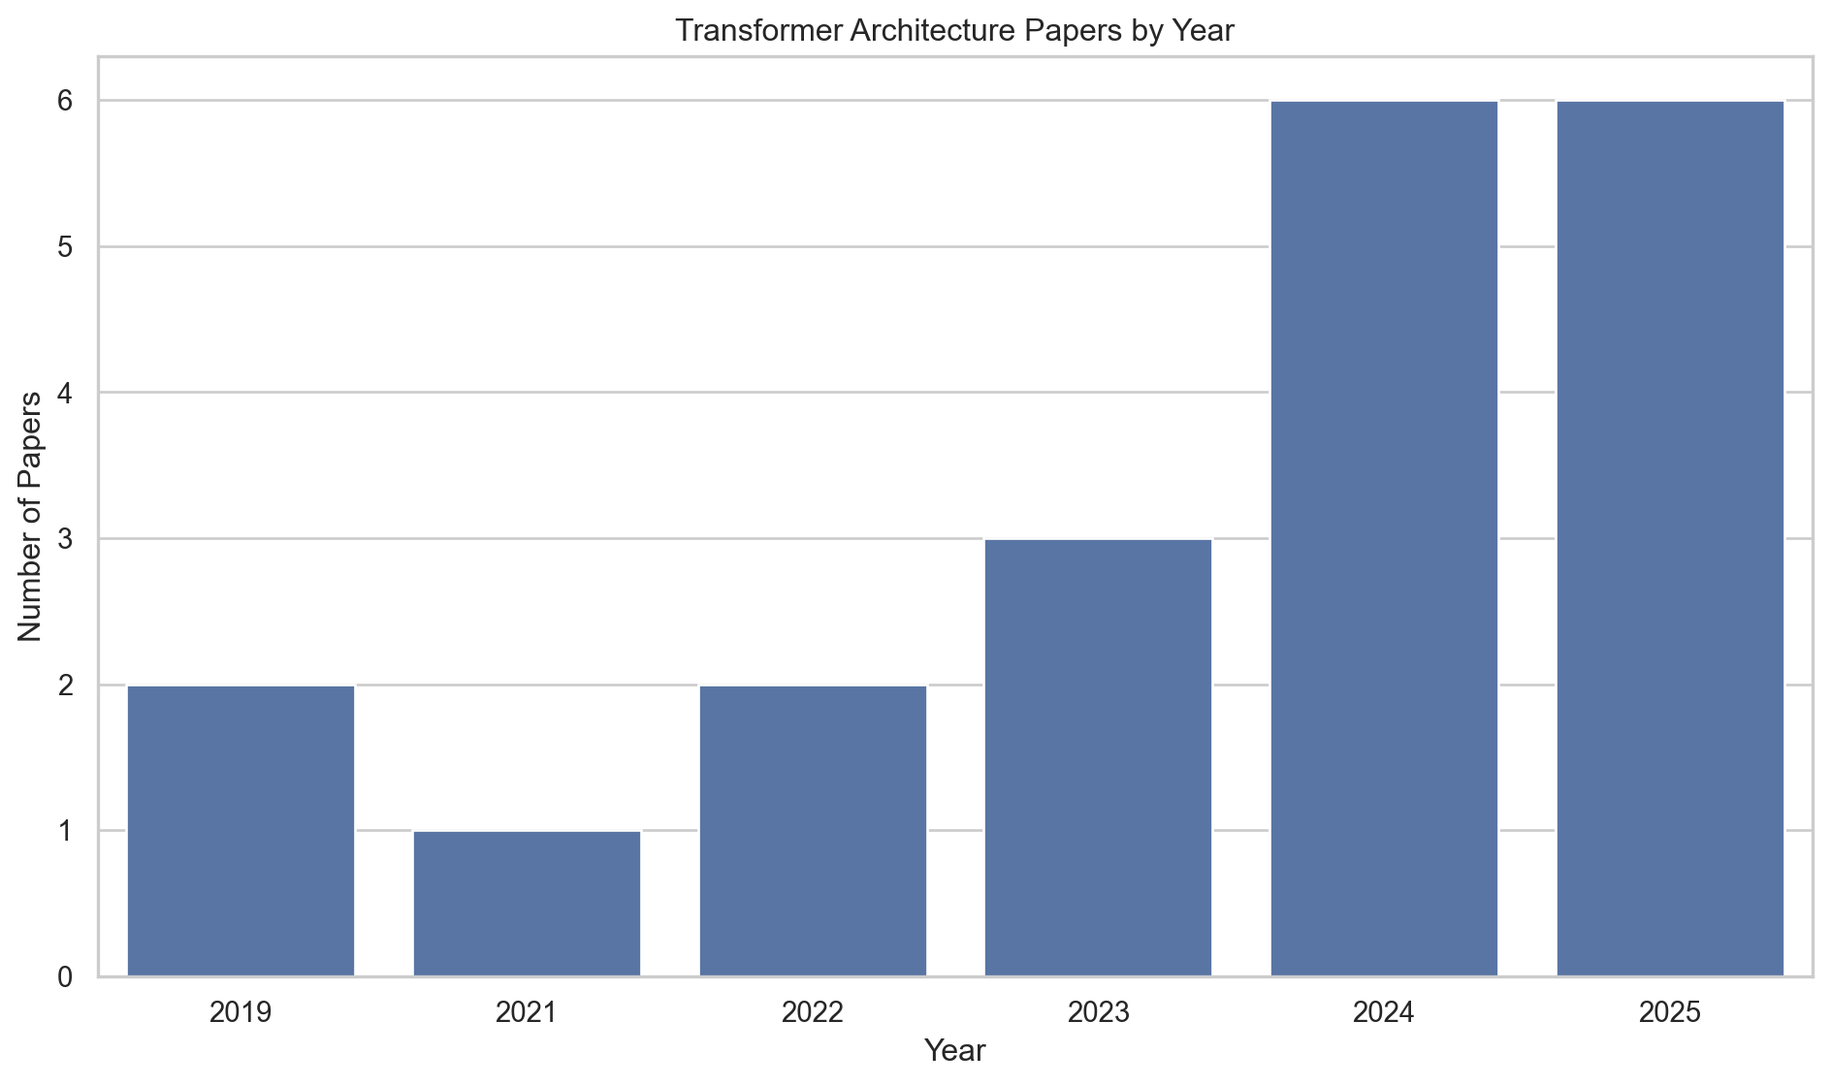
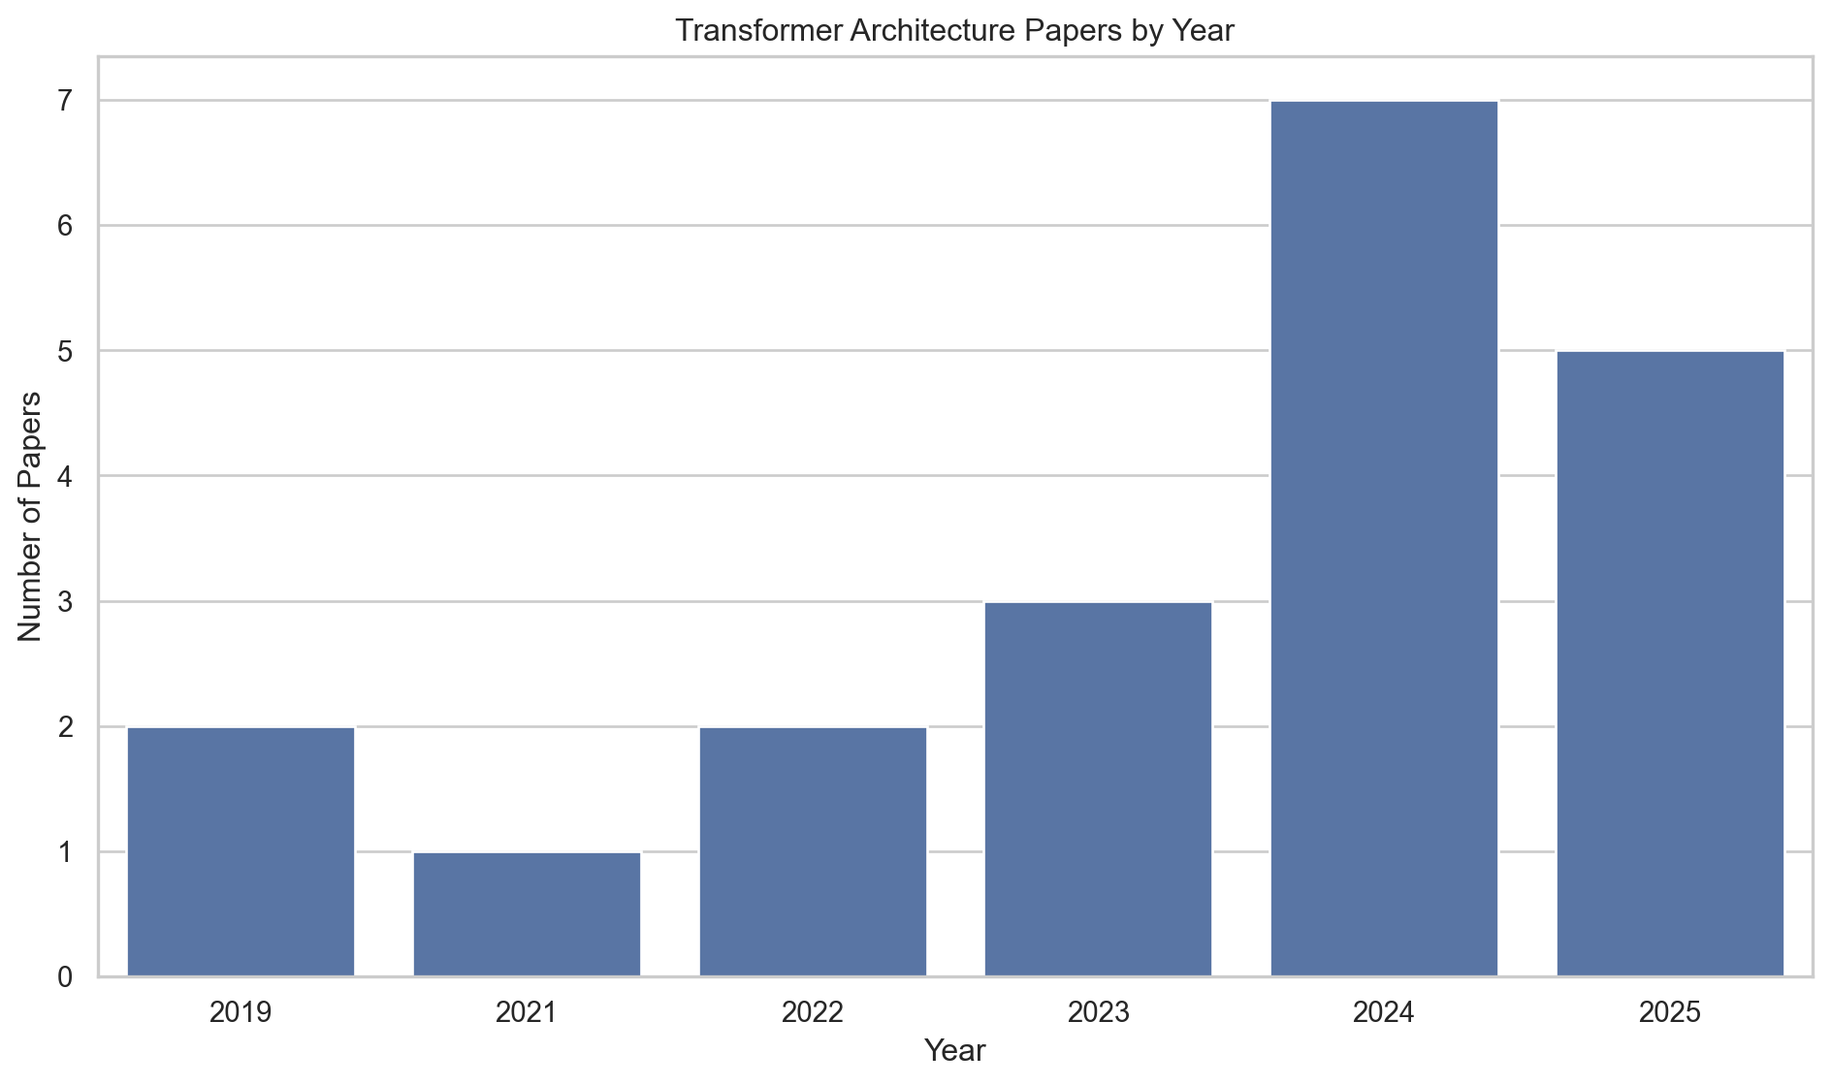
Updating charts

diff --git a/docs/tutorial.html b/docs/tutorial.html
@@ -206,11 +206,11 @@ pre > code.sourceCode > span > a:first-child::before { text-decoration: underlin
 <section id="importing" class="level2">
 <h2 class="anchored" data-anchor-id="importing">Importing</h2>
 <p>To import the entire package:</p>
-<div id="9b85baab" class="cell" data-execution_count="1">
+<div id="2598d375" class="cell" data-execution_count="1">
 <div class="code-copy-outer-scaffold"><div class="sourceCode cell-code" id="cb3"><pre class="sourceCode python code-with-copy"><code class="sourceCode python"><span id="cb3-1"><a href="#cb3-1" aria-hidden="true" tabindex="-1"></a><span class="im">import</span> ml_research_trends</span></code></pre></div><button title="Copy to Clipboard" class="code-copy-button"><i class="bi"></i></button></div>
 </div>
 <p>To import individual functions:</p>
-<div id="cb35aea7" class="cell" data-execution_count="2">
+<div id="dc18ccee" class="cell" data-execution_count="2">
 <div class="code-copy-outer-scaffold"><div class="sourceCode cell-code" id="cb4"><pre class="sourceCode python code-with-copy"><code class="sourceCode python"><span id="cb4-1"><a href="#cb4-1" aria-hidden="true" tabindex="-1"></a><span class="im">from</span> ml_research_trends <span class="im">import</span> (</span>
 <span id="cb4-2"><a href="#cb4-2" aria-hidden="true" tabindex="-1"></a>    collect_topic_data,</span>
 <span id="cb4-3"><a href="#cb4-3" aria-hidden="true" tabindex="-1"></a>    summarize_topic_data,</span>
@@ -224,7 +224,7 @@ pre > code.sourceCode > span > a:first-child::before { text-decoration: underlin
 <section id="setting-up-api-key" class="level2">
 <h2 class="anchored" data-anchor-id="setting-up-api-key">Setting up API Key</h2>
 <p>To load your API key from a <code>.env</code> file, use the <code>python-dotenv</code> package:</p>
-<div id="f57a7eb9" class="cell" data-execution_count="3">
+<div id="670c8d95" class="cell" data-execution_count="3">
 <div class="code-copy-outer-scaffold"><div class="sourceCode cell-code" id="cb5"><pre class="sourceCode python code-with-copy"><code class="sourceCode python"><span id="cb5-1"><a href="#cb5-1" aria-hidden="true" tabindex="-1"></a><span class="im">from</span> dotenv <span class="im">import</span> load_dotenv</span>
 <span id="cb5-2"><a href="#cb5-2" aria-hidden="true" tabindex="-1"></a><span class="im">import</span> os</span>
 <span id="cb5-3"><a href="#cb5-3" aria-hidden="true" tabindex="-1"></a></span>
@@ -243,7 +243,7 @@ pre > code.sourceCode > span > a:first-child::before { text-decoration: underlin
 <h3 class="anchored" data-anchor-id="step-1-gather-data">Step 1: Gather Data</h3>
 <p>First you need to create your dataset using the SemanticScholar API. You can do this using the <code>collect_topic_data</code> function.</p>
 <p>This queries Semantic Scholar for each keyword, de-duplicates the results, filters by year, and returns a tidy <code>pandas.DataFrame</code>. It also writes the DataFrame to CSV if <code>save_path</code> is given.</p>
-<div id="e3b1c203" class="cell" data-execution_count="4">
+<div id="5ee7222c" class="cell" data-execution_count="4">
 <div class="code-copy-outer-scaffold"><div class="sourceCode cell-code" id="cb7"><pre class="sourceCode python code-with-copy"><code class="sourceCode python"><span id="cb7-1"><a href="#cb7-1" aria-hidden="true" tabindex="-1"></a>df <span class="op">=</span> collect_topic_data(</span>
 <span id="cb7-2"><a href="#cb7-2" aria-hidden="true" tabindex="-1"></a>    keywords<span class="op">=</span>[</span>
 <span id="cb7-3"><a href="#cb7-3" aria-hidden="true" tabindex="-1"></a>        <span class="st">"self-attention neural network"</span>,</span>
@@ -260,13 +260,13 @@ pre > code.sourceCode > span > a:first-child::before { text-decoration: underlin
 <span id="cb7-14"><a href="#cb7-14" aria-hidden="true" tabindex="-1"></a><span class="bu">print</span>(df[[<span class="st">"title"</span>, <span class="st">"year"</span>, <span class="st">"citation_count"</span>, <span class="st">"venue"</span>]].head())</span>
 <span id="cb7-15"><a href="#cb7-15" aria-hidden="true" tabindex="-1"></a><span class="bu">print</span>(<span class="st">"Total papers:"</span>, <span class="bu">len</span>(df))</span></code></pre></div><button title="Copy to Clipboard" class="code-copy-button"><i class="bi"></i></button></div>
 <div class="cell-output cell-output-stderr">
-<pre><code>Fetching papers:   0%|          | 0/4 [00:00&lt;?, ?req/s]Fetching papers:   0%|          | 0/4 [00:00&lt;?, ?req/s, keyword=self-attention neural network]Fetching papers:  25%|██▌       | 1/4 [00:00&lt;00:02,  1.08req/s, keyword=self-attention neural network]Fetching papers:  25%|██▌       | 1/4 [00:00&lt;00:02,  1.08req/s, collected=0, keyword=self-attention neural network]Fetching papers:  25%|██▌       | 1/4 [00:00&lt;00:02,  1.08req/s, keyword=multi-head attention]                                                                                                                   Fetching papers:  25%|██▌       | 1/4 [00:01&lt;00:02,  1.08req/s, keyword=multi-head attention]</code></pre>
+<pre><code>Fetching papers:   0%|          | 0/4 [00:00&lt;?, ?req/s]Fetching papers:   0%|          | 0/4 [00:00&lt;?, ?req/s, keyword=self-attention neural network]Fetching papers:  25%|██▌       | 1/4 [00:01&lt;00:03,  1.03s/req, keyword=self-attention neural network]Fetching papers:  25%|██▌       | 1/4 [00:01&lt;00:03,  1.03s/req, collected=0, keyword=self-attention neural network]Fetching papers:  25%|██▌       | 1/4 [00:01&lt;00:03,  1.03s/req, keyword=multi-head attention]                                                                                                                   Fetching papers:  25%|██▌       | 1/4 [00:01&lt;00:03,  1.03s/req, keyword=multi-head attention]</code></pre>
 </div>
 <div class="cell-output cell-output-stdout">
 <pre><code>Rate limited (429). Waiting 1s before retry...</code></pre>
 </div>
 <div class="cell-output cell-output-stderr">
-<pre><code>Fetching papers:  50%|█████     | 2/4 [00:03&lt;00:03,  1.62s/req, keyword=multi-head attention]Fetching papers:  50%|█████     | 2/4 [00:03&lt;00:03,  1.62s/req, collected=5, keyword=multi-head attention]Fetching papers:  50%|█████     | 2/4 [00:03&lt;00:03,  1.62s/req, keyword=transformer language model]       Fetching papers:  75%|███████▌  | 3/4 [00:04&lt;00:01,  1.50s/req, keyword=transformer language model]Fetching papers:  75%|███████▌  | 3/4 [00:04&lt;00:01,  1.50s/req, collected=10, keyword=transformer language model]Fetching papers:  75%|███████▌  | 3/4 [00:04&lt;00:01,  1.50s/req, keyword=encoder decoder transformer]             Fetching papers: 100%|██████████| 4/4 [00:05&lt;00:00,  1.23s/req, keyword=encoder decoder transformer]Fetching papers: 100%|██████████| 4/4 [00:05&lt;00:00,  1.23s/req, collected=15, keyword=encoder decoder transformer]Fetching papers: 100%|██████████| 4/4 [00:05&lt;00:00,  1.31s/req, collected=15, keyword=encoder decoder transformer]</code></pre>
+<pre><code>Fetching papers:  50%|█████     | 2/4 [00:03&lt;00:03,  1.69s/req, keyword=multi-head attention]Fetching papers:  50%|█████     | 2/4 [00:03&lt;00:03,  1.69s/req, collected=5, keyword=multi-head attention]Fetching papers:  50%|█████     | 2/4 [00:03&lt;00:03,  1.69s/req, keyword=transformer language model]       Fetching papers:  75%|███████▌  | 3/4 [00:04&lt;00:01,  1.43s/req, keyword=transformer language model]Fetching papers:  75%|███████▌  | 3/4 [00:04&lt;00:01,  1.43s/req, collected=10, keyword=transformer language model]Fetching papers:  75%|███████▌  | 3/4 [00:04&lt;00:01,  1.43s/req, keyword=encoder decoder transformer]             Fetching papers: 100%|██████████| 4/4 [00:05&lt;00:00,  1.27s/req, keyword=encoder decoder transformer]Fetching papers: 100%|██████████| 4/4 [00:05&lt;00:00,  1.27s/req, collected=15, keyword=encoder decoder transformer]Fetching papers: 100%|██████████| 4/4 [00:05&lt;00:00,  1.33s/req, collected=15, keyword=encoder decoder transformer]</code></pre>
 </div>
 <div class="cell-output cell-output-stdout">
 <pre><code>                                               title  year  citation_count  \
@@ -291,16 +291,14 @@ Total papers: 20</code></pre>
 </section>
 <section id="step-2-summarize-and-analyze" class="level3">
 <h3 class="anchored" data-anchor-id="step-2-summarize-and-analyze">Step 2: Summarize and analyze</h3>
-<div id="def5451d" class="cell" data-execution_count="5">
-<div class="code-copy-outer-scaffold"><div class="sourceCode cell-code" id="cb13"><pre class="sourceCode python code-with-copy"><code class="sourceCode python"><span id="cb13-1"><a href="#cb13-1" aria-hidden="true" tabindex="-1"></a><span class="im">from</span> ml_research_trends <span class="im">import</span> summarize_topic_data, analyze_topic_trends</span>
-<span id="cb13-2"><a href="#cb13-2" aria-hidden="true" tabindex="-1"></a></span>
-<span id="cb13-3"><a href="#cb13-3" aria-hidden="true" tabindex="-1"></a>summary <span class="op">=</span> summarize_topic_data(df)</span>
-<span id="cb13-4"><a href="#cb13-4" aria-hidden="true" tabindex="-1"></a><span class="bu">print</span>(<span class="st">"Total papers:"</span>, summary[<span class="st">"total_papers"</span>])</span>
-<span id="cb13-5"><a href="#cb13-5" aria-hidden="true" tabindex="-1"></a><span class="bu">print</span>(<span class="st">"Year range:"</span>, summary[<span class="st">"year_min"</span>], <span class="st">"-"</span>, summary[<span class="st">"year_max"</span>])</span>
-<span id="cb13-6"><a href="#cb13-6" aria-hidden="true" tabindex="-1"></a><span class="bu">print</span>(<span class="st">"Median citations:"</span>, summary[<span class="st">"median_citations"</span>])</span>
-<span id="cb13-7"><a href="#cb13-7" aria-hidden="true" tabindex="-1"></a></span>
-<span id="cb13-8"><a href="#cb13-8" aria-hidden="true" tabindex="-1"></a>trends <span class="op">=</span> analyze_topic_trends(df)</span>
-<span id="cb13-9"><a href="#cb13-9" aria-hidden="true" tabindex="-1"></a><span class="bu">print</span>(trends)</span></code></pre></div><button title="Copy to Clipboard" class="code-copy-button"><i class="bi"></i></button></div>
+<div id="82106415" class="cell" data-execution_count="5">
+<div class="code-copy-outer-scaffold"><div class="sourceCode cell-code" id="cb13"><pre class="sourceCode python code-with-copy"><code class="sourceCode python"><span id="cb13-1"><a href="#cb13-1" aria-hidden="true" tabindex="-1"></a>summary <span class="op">=</span> summarize_topic_data(df)</span>
+<span id="cb13-2"><a href="#cb13-2" aria-hidden="true" tabindex="-1"></a><span class="bu">print</span>(<span class="st">"Total papers:"</span>, summary[<span class="st">"total_papers"</span>])</span>
+<span id="cb13-3"><a href="#cb13-3" aria-hidden="true" tabindex="-1"></a><span class="bu">print</span>(<span class="st">"Year range:"</span>, summary[<span class="st">"year_min"</span>], <span class="st">"-"</span>, summary[<span class="st">"year_max"</span>])</span>
+<span id="cb13-4"><a href="#cb13-4" aria-hidden="true" tabindex="-1"></a><span class="bu">print</span>(<span class="st">"Median citations:"</span>, summary[<span class="st">"median_citations"</span>])</span>
+<span id="cb13-5"><a href="#cb13-5" aria-hidden="true" tabindex="-1"></a></span>
+<span id="cb13-6"><a href="#cb13-6" aria-hidden="true" tabindex="-1"></a>trends <span class="op">=</span> analyze_topic_trends(df)</span>
+<span id="cb13-7"><a href="#cb13-7" aria-hidden="true" tabindex="-1"></a><span class="bu">print</span>(trends)</span></code></pre></div><button title="Copy to Clipboard" class="code-copy-button"><i class="bi"></i></button></div>
 <div class="cell-output cell-output-stdout">
 <pre><code>Total papers: 20
 Year range: 2019 - 2025
@@ -310,21 +308,20 @@ Median citations: 23.5
 1  2021            1          70.000000              70.0
 2  2022            2          52.000000              52.0
 3  2023            3          21.666667              19.0
-4  2024            6          21.000000              21.0
-5  2025            6          14.666667              14.5</code></pre>
+4  2024            7          19.571429              18.0
+5  2025            5          17.600000              17.0</code></pre>
 </div>
 </div>
 </section>
 <section id="step-3-make-plots" class="level3">
 <h3 class="anchored" data-anchor-id="step-3-make-plots">Step 3: Make plots</h3>
-<div id="a724971b" class="cell" data-execution_count="6">
-<div class="code-copy-outer-scaffold"><div class="sourceCode cell-code" id="cb15"><pre class="sourceCode python code-with-copy"><code class="sourceCode python"><span id="cb15-1"><a href="#cb15-1" aria-hidden="true" tabindex="-1"></a><span class="im">from</span> ml_research_trends <span class="im">import</span> (</span>
-<span id="cb15-2"><a href="#cb15-2" aria-hidden="true" tabindex="-1"></a>    plot_topic_counts_by_year,</span>
-<span id="cb15-3"><a href="#cb15-3" aria-hidden="true" tabindex="-1"></a>    plot_landmark_timeline,</span>
-<span id="cb15-4"><a href="#cb15-4" aria-hidden="true" tabindex="-1"></a>    embed_and_plot_abstracts,</span>
-<span id="cb15-5"><a href="#cb15-5" aria-hidden="true" tabindex="-1"></a>)</span>
-<span id="cb15-6"><a href="#cb15-6" aria-hidden="true" tabindex="-1"></a></span>
-<span id="cb15-7"><a href="#cb15-7" aria-hidden="true" tabindex="-1"></a>plot_topic_counts_by_year(trends, topic_name<span class="op">=</span><span class="st">"Transformer Architecture"</span>)</span></code></pre></div><button title="Copy to Clipboard" class="code-copy-button"><i class="bi"></i></button></div>
+<section id="year-counts" class="level4">
+<h4 class="anchored" data-anchor-id="year-counts">Year counts</h4>
+<div id="6fb21ff4" class="cell" data-execution_count="6">
+<div class="code-copy-outer-scaffold"><div class="sourceCode cell-code" id="cb15"><pre class="sourceCode python code-with-copy"><code class="sourceCode python"><span id="cb15-1"><a href="#cb15-1" aria-hidden="true" tabindex="-1"></a>plot_topic_counts_by_year(</span>
+<span id="cb15-2"><a href="#cb15-2" aria-hidden="true" tabindex="-1"></a>    trends, </span>
+<span id="cb15-3"><a href="#cb15-3" aria-hidden="true" tabindex="-1"></a>    topic_name<span class="op">=</span><span class="st">"Transformer Architecture"</span></span>
+<span id="cb15-4"><a href="#cb15-4" aria-hidden="true" tabindex="-1"></a>)</span></code></pre></div><button title="Copy to Clipboard" class="code-copy-button"><i class="bi"></i></button></div>
 <div class="cell-output cell-output-display">
 <div>
 <figure class="figure">
@@ -340,13 +337,20 @@ Median citations: 23.5
 </div>
 </div>
 </div>
+</section>
+<section id="landmark-timeline" class="level4">
+<h4 class="anchored" data-anchor-id="landmark-timeline">Landmark Timeline</h4>
 <div class="code-copy-outer-scaffold"><div class="sourceCode" id="cb16"><pre class="sourceCode python code-with-copy"><code class="sourceCode python"><span id="cb16-1"><a href="#cb16-1" aria-hidden="true" tabindex="-1"></a>plot_landmark_timeline(</span>
 <span id="cb16-2"><a href="#cb16-2" aria-hidden="true" tabindex="-1"></a>    df,</span>
 <span id="cb16-3"><a href="#cb16-3" aria-hidden="true" tabindex="-1"></a>    landmark_date<span class="op">=</span><span class="st">"2017-06-12"</span>,</span>
 <span id="cb16-4"><a href="#cb16-4" aria-hidden="true" tabindex="-1"></a>    landmark_label<span class="op">=</span><span class="st">"Vaswani et al. — Attention Is All You Need"</span>,</span>
 <span id="cb16-5"><a href="#cb16-5" aria-hidden="true" tabindex="-1"></a>    topic_name<span class="op">=</span><span class="st">"Transformer Architecture"</span>,</span>
 <span id="cb16-6"><a href="#cb16-6" aria-hidden="true" tabindex="-1"></a>)</span></code></pre></div><button title="Copy to Clipboard" class="code-copy-button"><i class="bi"></i></button></div>
-<div id="230b848a" class="cell" data-execution_count="7">
+</section>
+<section id="embedding-abstracts" class="level4">
+<h4 class="anchored" data-anchor-id="embedding-abstracts">Embedding Abstracts</h4>
+<p>Note: Embedding the first time will download the model (~8 GB) and cache the vectors to <code>cache_path</code>. After that, rerunning is fast.</p>
+<div id="333321ff" class="cell" data-execution_count="7">
 <div class="code-copy-outer-scaffold"><div class="sourceCode cell-code" id="cb17"><pre class="sourceCode python code-with-copy"><code class="sourceCode python"><span id="cb17-1"><a href="#cb17-1" aria-hidden="true" tabindex="-1"></a>embed_and_plot_abstracts(</span>
 <span id="cb17-2"><a href="#cb17-2" aria-hidden="true" tabindex="-1"></a>    df,</span>
 <span id="cb17-3"><a href="#cb17-3" aria-hidden="true" tabindex="-1"></a>    model_name_or_path<span class="op">=</span><span class="st">"Qwen/Qwen3-Embedding-4B"</span>,</span>
@@ -354,29 +358,19 @@ Median citations: 23.5
 <span id="cb17-5"><a href="#cb17-5" aria-hidden="true" tabindex="-1"></a>    cache_path<span class="op">=</span><span class="st">"transformer_embeddings.npy"</span>,</span>
 <span id="cb17-6"><a href="#cb17-6" aria-hidden="true" tabindex="-1"></a>    topic_name<span class="op">=</span><span class="st">"Transformer Architecture"</span></span>
 <span id="cb17-7"><a href="#cb17-7" aria-hidden="true" tabindex="-1"></a>)</span></code></pre></div><button title="Copy to Clipboard" class="code-copy-button"><i class="bi"></i></button></div>
+<div class="cell-output cell-output-stdout">
+<pre><code>Loaded cached embeddings from transformer_embeddings.npy</code></pre>
+</div>
 <div class="cell-output cell-output-stderr">
 <pre><code>C:\Users\Alyssa\Desktop\Stat_386_Real\Project\ml_data_pages\.venv\Lib\site-packages\tqdm\auto.py:21: TqdmWarning: IProgress not found. Please update jupyter and ipywidgets. See https://ipywidgets.readthedocs.io/en/stable/user_install.html
-  from .autonotebook import tqdm as notebook_tqdm</code></pre>
-</div>
-<div class="cell-output cell-output-stdout">
-<pre><code>Loading Qwen/Qwen3-Embedding-4B on cpu...</code></pre>
-</div>
-<div class="cell-output cell-output-stderr">
-<pre><code>Warning: You are sending unauthenticated requests to the HF Hub. Please set a HF_TOKEN to enable higher rate limits and faster downloads.
-Loading weights:   0%|          | 0/398 [00:00&lt;?, ?it/s]Loading weights: 100%|██████████| 398/398 [00:00&lt;00:00, 5047.91it/s]
-Batches:   0%|          | 0/3 [00:00&lt;?, ?it/s]Batches:  33%|███▎      | 1/3 [12:47&lt;25:35, 767.62s/it]Batches:  67%|██████▋   | 2/3 [18:32&lt;08:39, 519.21s/it]Batches: 100%|██████████| 3/3 [18:50&lt;00:00, 290.04s/it]Batches: 100%|██████████| 3/3 [18:50&lt;00:00, 376.76s/it]</code></pre>
-</div>
-<div class="cell-output cell-output-stdout">
-<pre><code>Saved embeddings to transformer_embeddings.npy</code></pre>
-</div>
-<div class="cell-output cell-output-stderr">
-<pre><code>C:\Users\Alyssa\Desktop\Stat_386_Real\Project\ml_data_pages\.venv\Lib\site-packages\umap\umap_.py:1952: UserWarning: n_jobs value 1 overridden to 1 by setting random_state. Use no seed for parallelism.
+  from .autonotebook import tqdm as notebook_tqdm
+C:\Users\Alyssa\Desktop\Stat_386_Real\Project\ml_data_pages\.venv\Lib\site-packages\umap\umap_.py:1952: UserWarning: n_jobs value 1 overridden to 1 by setting random_state. Use no seed for parallelism.
   warn(</code></pre>
 </div>
 <div class="cell-output cell-output-display">
 <div>
 <figure class="figure">
-<p><img src="tutorial_files/figure-html/cell-8-output-6.png" width="1041" height="656" class="figure-img"></p>
+<p><img src="tutorial_files/figure-html/cell-8-output-3.png" width="1041" height="656" class="figure-img"></p>
 </figure>
 </div>
 </div>
@@ -494,41 +488,41 @@ Batches:   0%|          | 0/3 [00:00&lt;?, ?it/s]Batches:  33%|███▎     
 </tr>
 <tr class="odd">
 <th data-quarto-table-cell-role="th">12</th>
-<td>8fba908cc5a14451c27535b6c16194be74eb084c</td>
-<td>Cross Encoder-Decoder Transformer with Global-...</td>
-<td>2022</td>
+<td>c491f2f831ca4a09a0ac844f97e24ae1d704ddf6</td>
+<td>Uni MS-PS: A multi-scale encoder-decoder trans...</td>
+<td>2024</td>
 <td>1.346927</td>
 <td>5.787338</td>
 </tr>
 <tr class="even">
 <th data-quarto-table-cell-role="th">13</th>
-<td>e4f9042fbb879c20986bc3a9d595b3968c8227cd</td>
-<td>Pre-Trained Encoder Decoder Transformer Model ...</td>
-<td>2025</td>
+<td>8fba908cc5a14451c27535b6c16194be74eb084c</td>
+<td>Cross Encoder-Decoder Transformer with Global-...</td>
+<td>2022</td>
 <td>2.473906</td>
 <td>5.700538</td>
 </tr>
 <tr class="odd">
 <th data-quarto-table-cell-role="th">14</th>
-<td>81b7d8a9311c1f2d20fd1bc1d0d9835ce19d4b24</td>
-<td>DEED: Dynamic Early Exit on Decoder for Accele...</td>
-<td>2023</td>
+<td>e4f9042fbb879c20986bc3a9d595b3968c8227cd</td>
+<td>Pre-Trained Encoder Decoder Transformer Model ...</td>
+<td>2025</td>
 <td>1.434910</td>
 <td>5.161890</td>
 </tr>
 <tr class="even">
 <th data-quarto-table-cell-role="th">15</th>
-<td>ef9d3494c0a73c99020d96c3a10e72106d2683eb</td>
-<td>Efficient Encoder-Decoder Transformer Decoding...</td>
-<td>2024</td>
+<td>81b7d8a9311c1f2d20fd1bc1d0d9835ce19d4b24</td>
+<td>DEED: Dynamic Early Exit on Decoder for Accele...</td>
+<td>2023</td>
 <td>0.878365</td>
 <td>5.192169</td>
 </tr>
 <tr class="odd">
 <th data-quarto-table-cell-role="th">16</th>
-<td>07714b1b381bc7ddb3c1b6f7d3e68ab4f4707ea5</td>
-<td>Exploring Encoder–Decoder Transformer Structur...</td>
-<td>2025</td>
+<td>ef9d3494c0a73c99020d96c3a10e72106d2683eb</td>
+<td>Efficient Encoder-Decoder Transformer Decoding...</td>
+<td>2024</td>
 <td>2.110551</td>
 <td>3.522035</td>
 </tr>
@@ -538,9 +532,9 @@ Batches:   0%|          | 0/3 [00:00&lt;?, ?it/s]Batches:  33%|███▎     
 </div>
 </div>
 </div>
-<p>Embedding the first time will download the model (~8 GB) and cache the vectors to <code>cache_path</code>. After that, rerunning is fast.</p>
 
 
+</section>
 </section>
 </section>
 
